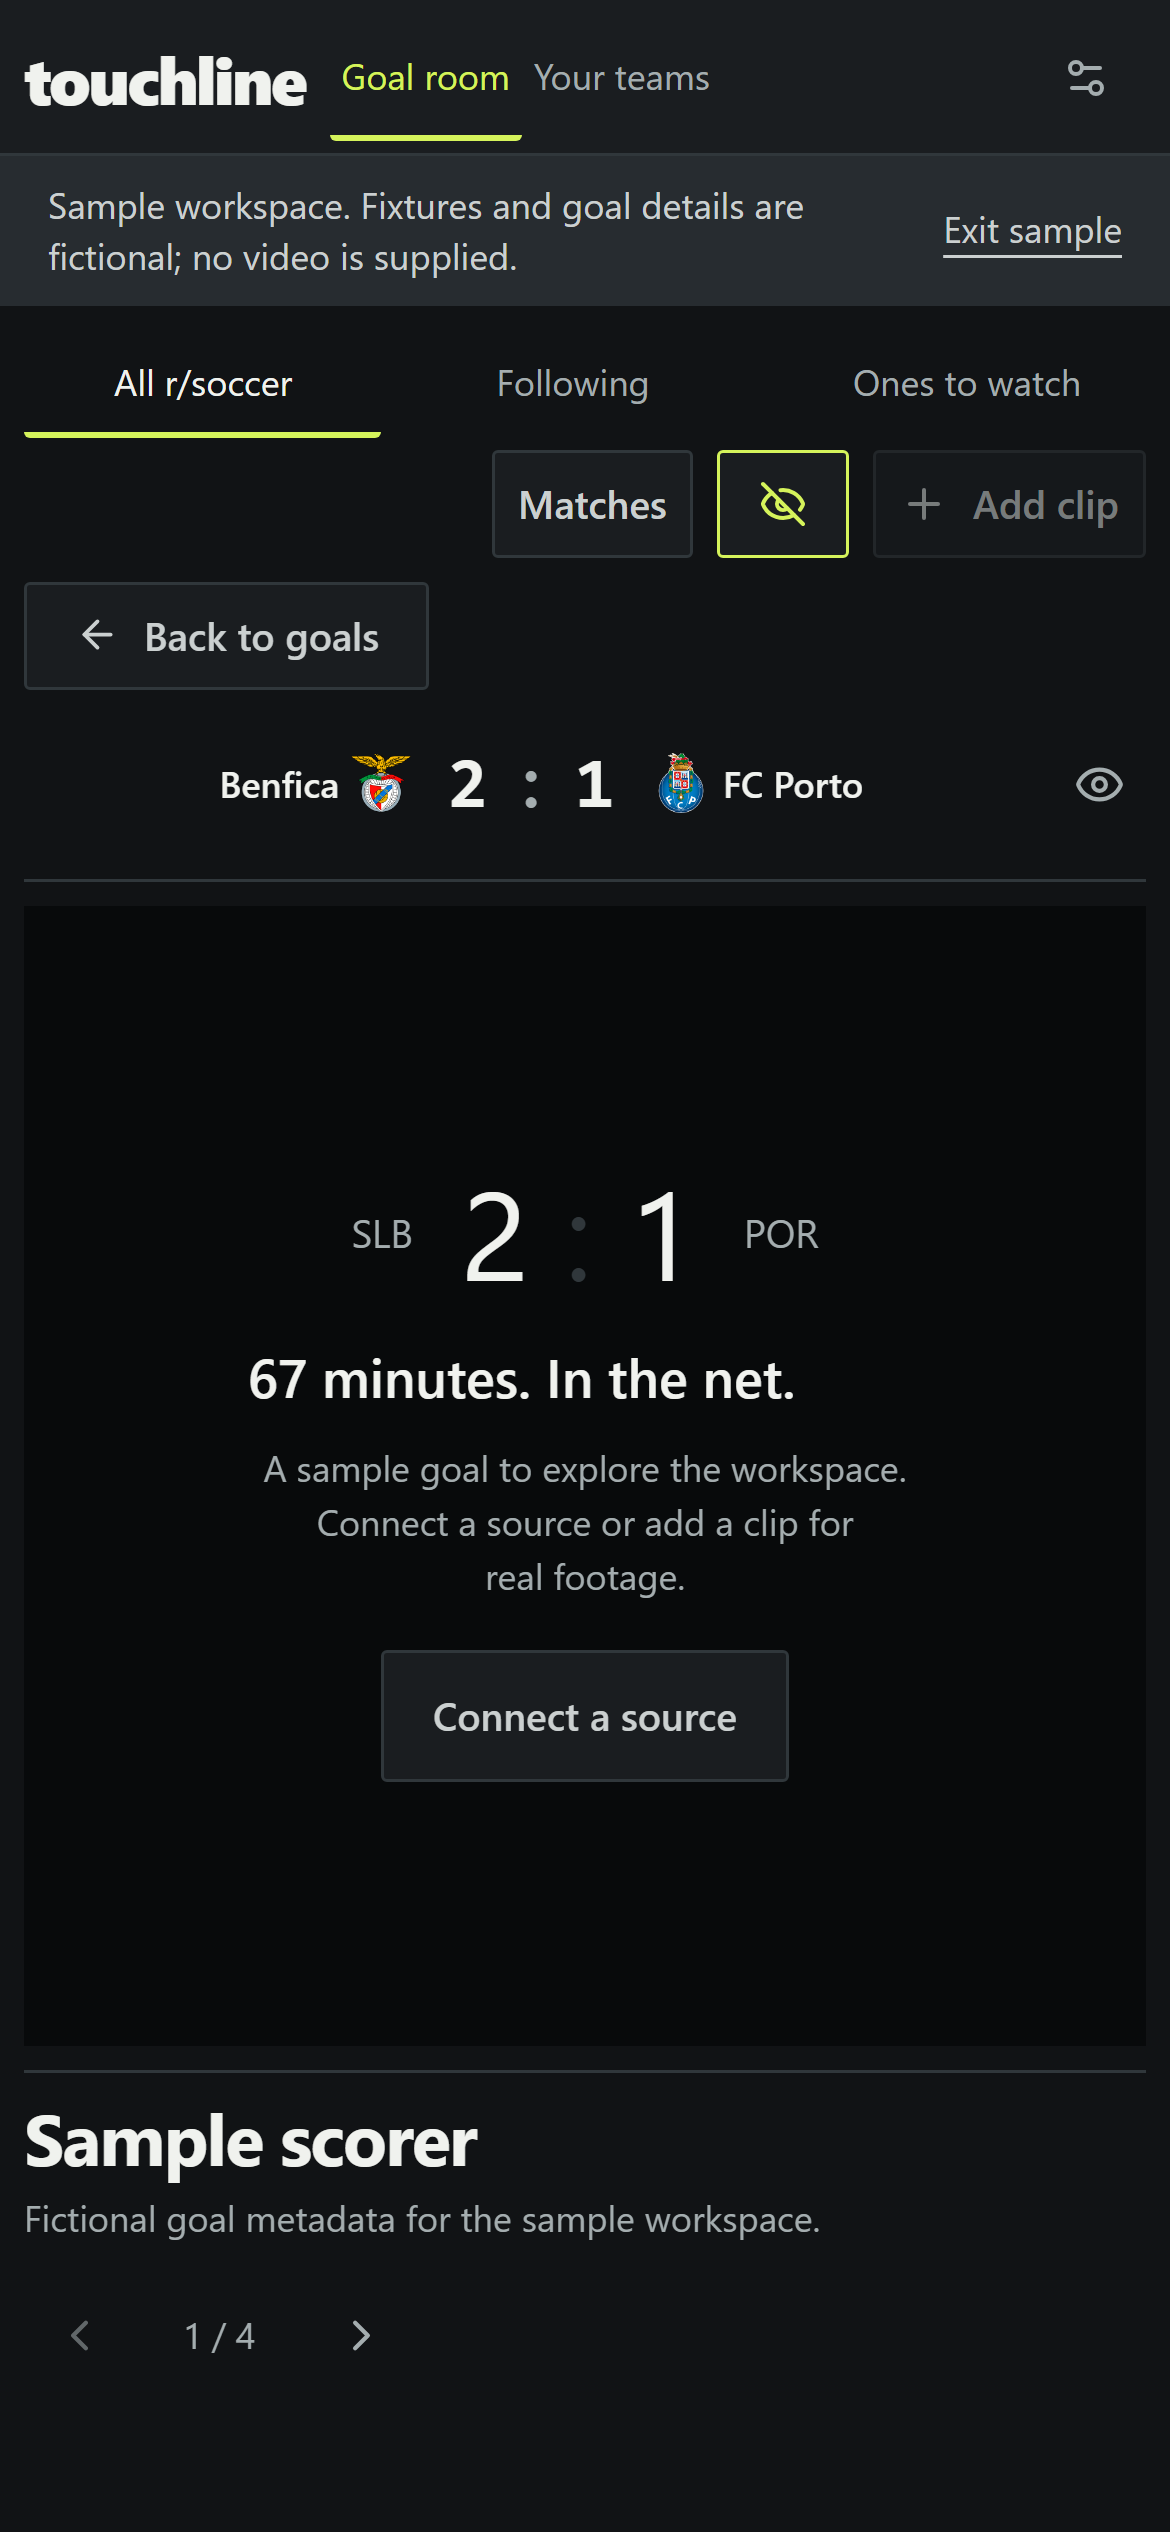
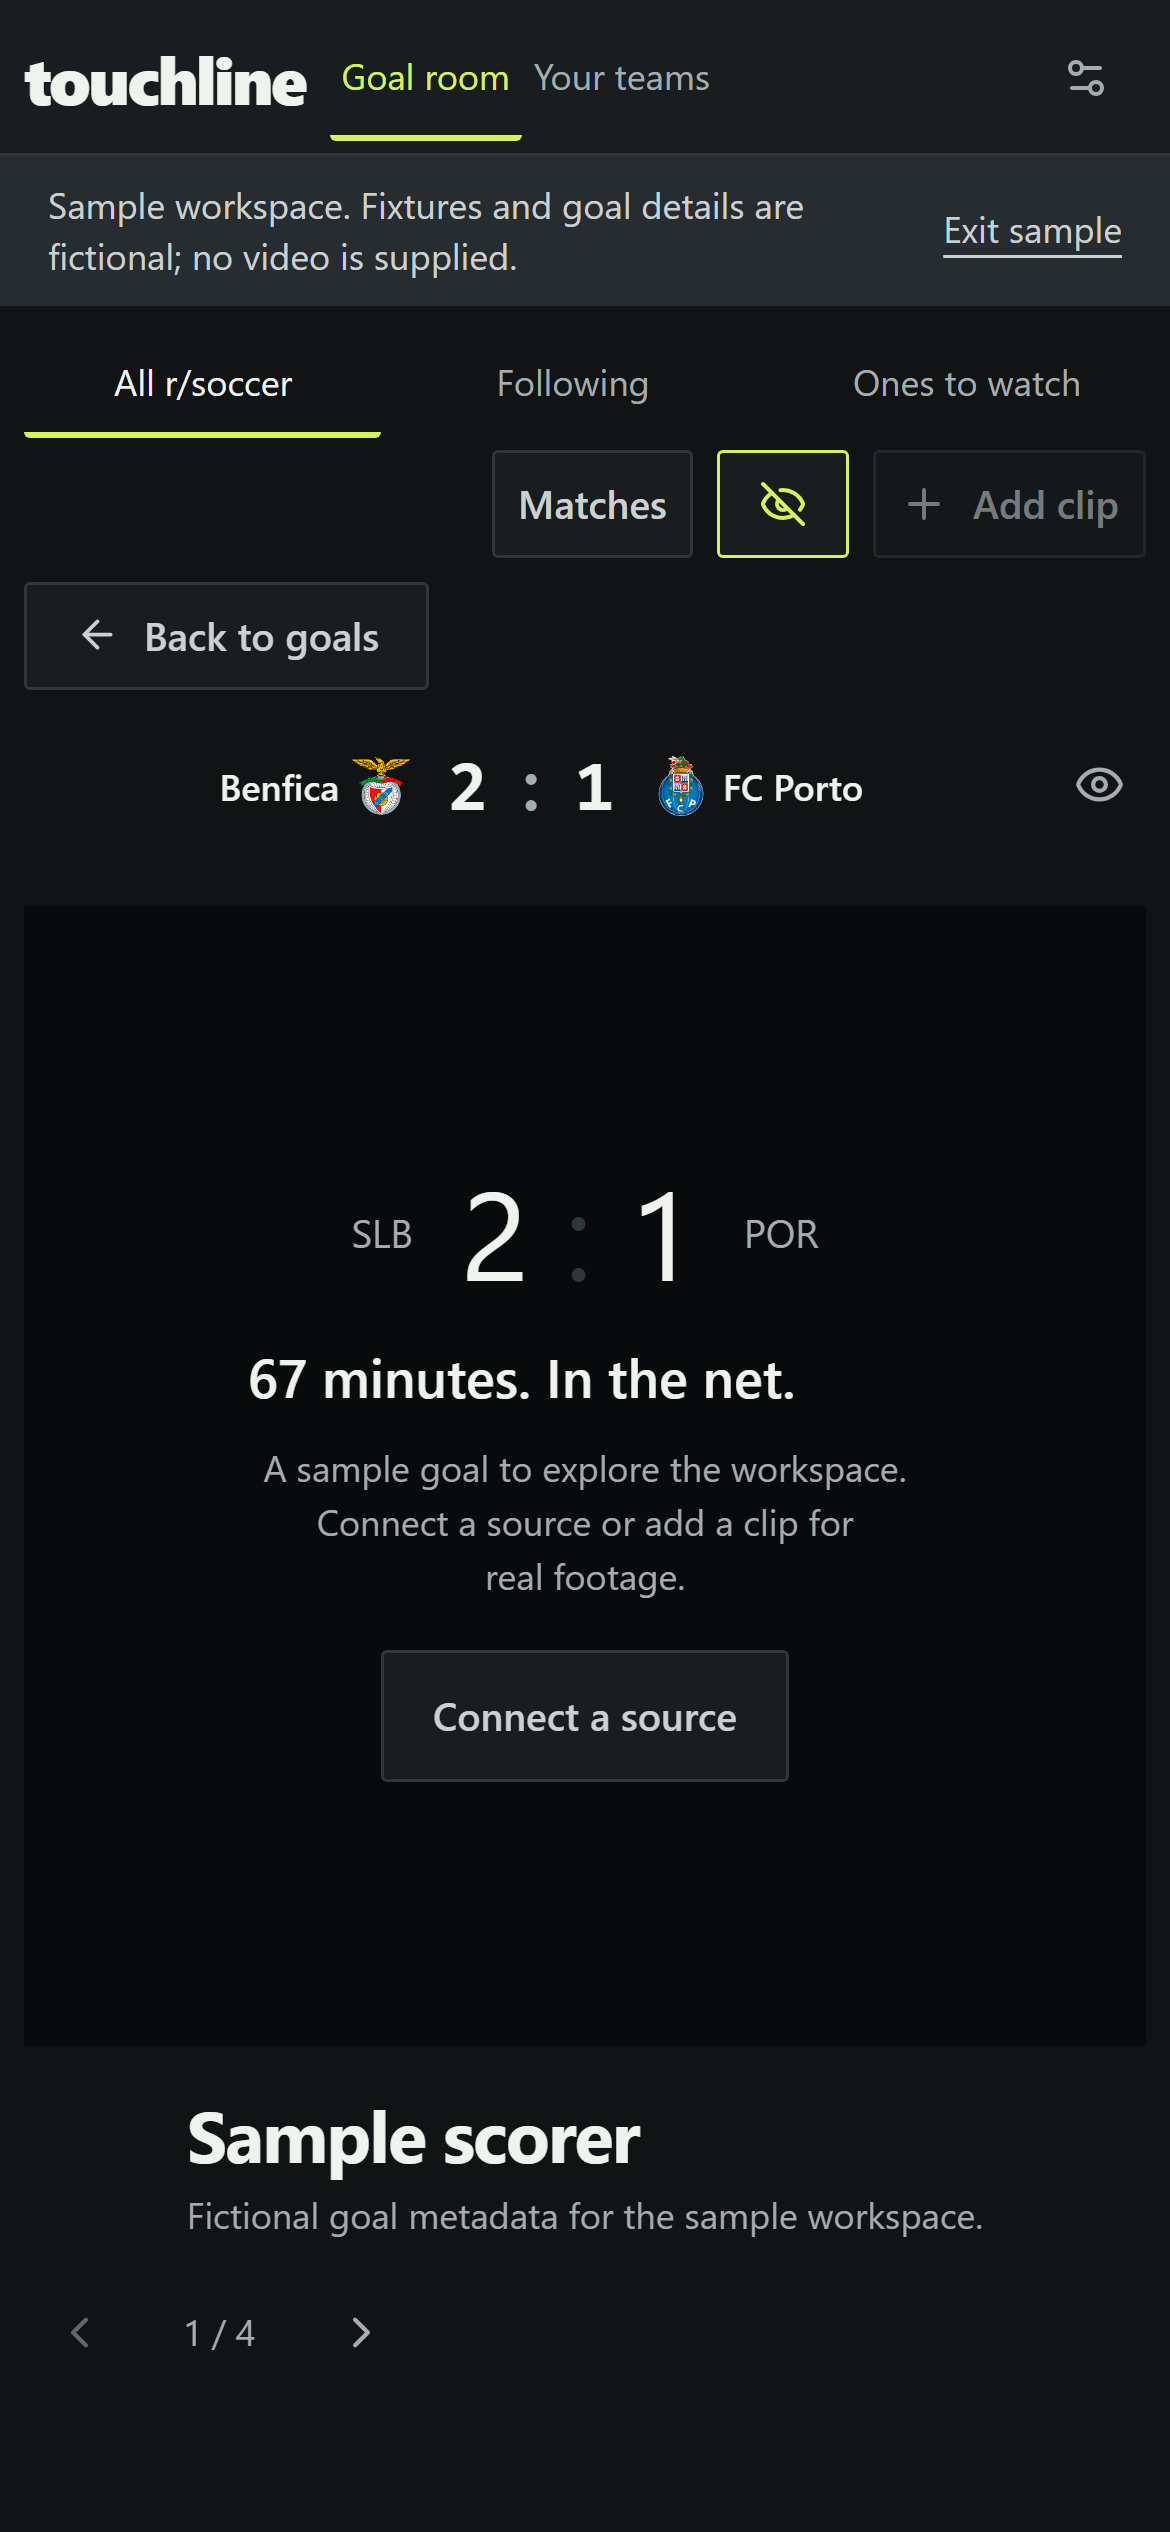
Make goal room columns fluid and lighten list boundaries

diff --git a/web/src/style.css b/web/src/style.css
@@ -2501,7 +2501,10 @@ summary:focus-visible {
 }
 @media (min-width: 1121px) {
   .goal-workspace {
-    grid-template-columns: 260px minmax(0, 1fr) 248px;
+    grid-template-columns: minmax(224px, 18fr) minmax(0, 64fr) minmax(
+        216px,
+        18fr
+      );
   }
 }
 @media (max-width: 760px) {
@@ -2554,5 +2557,86 @@ summary:focus-visible {
   }
   .player-header .icon-button {
     min-width: 32px;
+  }
+}
+
+/* Dense content, open gutters: tracks flex with the viewport rather than boxing it. */
+.view-goals {
+  padding-inline: clamp(var(--space-xs), 1.1vw, var(--space-md));
+}
+.goal-workspace {
+  gap: clamp(var(--space-sm), 1.5vw, var(--space-lg));
+}
+.goal-queue .section-bar,
+.match-rail .section-bar,
+.player-header,
+.clip-details {
+  border-bottom: 0;
+  border-top: 0;
+}
+.goal-row {
+  border-bottom: 0;
+  padding-block: var(--space-xs);
+}
+.goal-copy .goal-matchup {
+  gap: 0;
+}
+.goal-team {
+  line-height: 1.3;
+}
+.goal-copy .team-crest {
+  width: 16px;
+  height: 18px;
+  flex-basis: 16px;
+}
+.goal-copy strong {
+  line-height: 1.3;
+  margin: var(--space-2xs) 0 0;
+}
+.goal-copy small {
+  line-height: 1.3;
+}
+.goal-search {
+  margin-inline: 0;
+}
+.goal-search input {
+  border-color: var(--color-clear);
+  background: var(--color-paper-2);
+}
+.goal-queue .section-bar,
+.match-rail .section-bar {
+  padding-inline: var(--space-xs);
+}
+.match-rail > .date-control {
+  background: var(--color-paper);
+  border-bottom: 0;
+  padding-block: 0;
+}
+.match-group-heading {
+  border-bottom: 0;
+  padding-block: var(--space-xs);
+}
+.fixture {
+  border-bottom: 0;
+  padding: var(--space-xs);
+}
+.fixture-teams {
+  min-height: 44px;
+  line-height: 1.3;
+}
+.fixture .team-crest {
+  width: 18px;
+  height: 20px;
+  flex-basis: 18px;
+}
+.fixture-clips {
+  font-size: 11px;
+}
+.clip-details {
+  align-items: center;
+}
+@media (min-width: 761px) and (max-width: 1120px) {
+  .goal-workspace {
+    grid-template-columns: minmax(224px, 25%) minmax(0, 1fr);
   }
 }

diff --git a/web/src/App.tsx b/web/src/App.tsx
@@ -1077,9 +1077,12 @@ export default function App() {
                                       </span>
                                     )}
                                     {prefs.watched.includes(goal.id) && (
-                                      <span className="watched-note">
+                                      <span
+                                        className="watched-note"
+                                        title="Watched"
+                                      >
                                         <Check size={12} aria-hidden="true" />
-                                        Watched
+                                        <span className="sr-only">Watched</span>
                                       </span>
                                     )}
                                     {goal.alternatives.length
